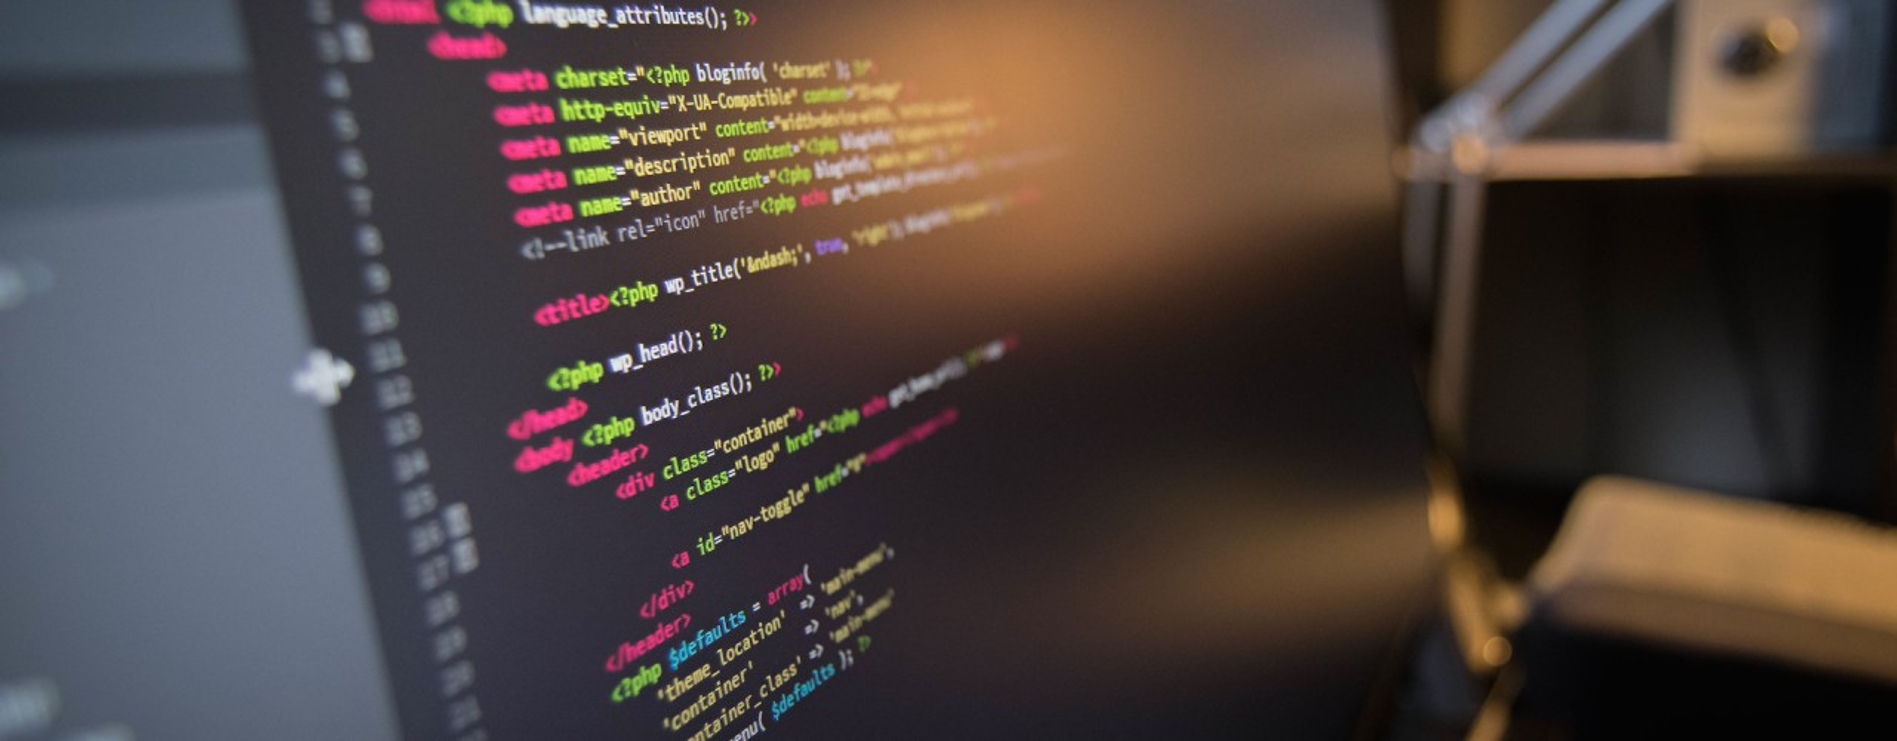
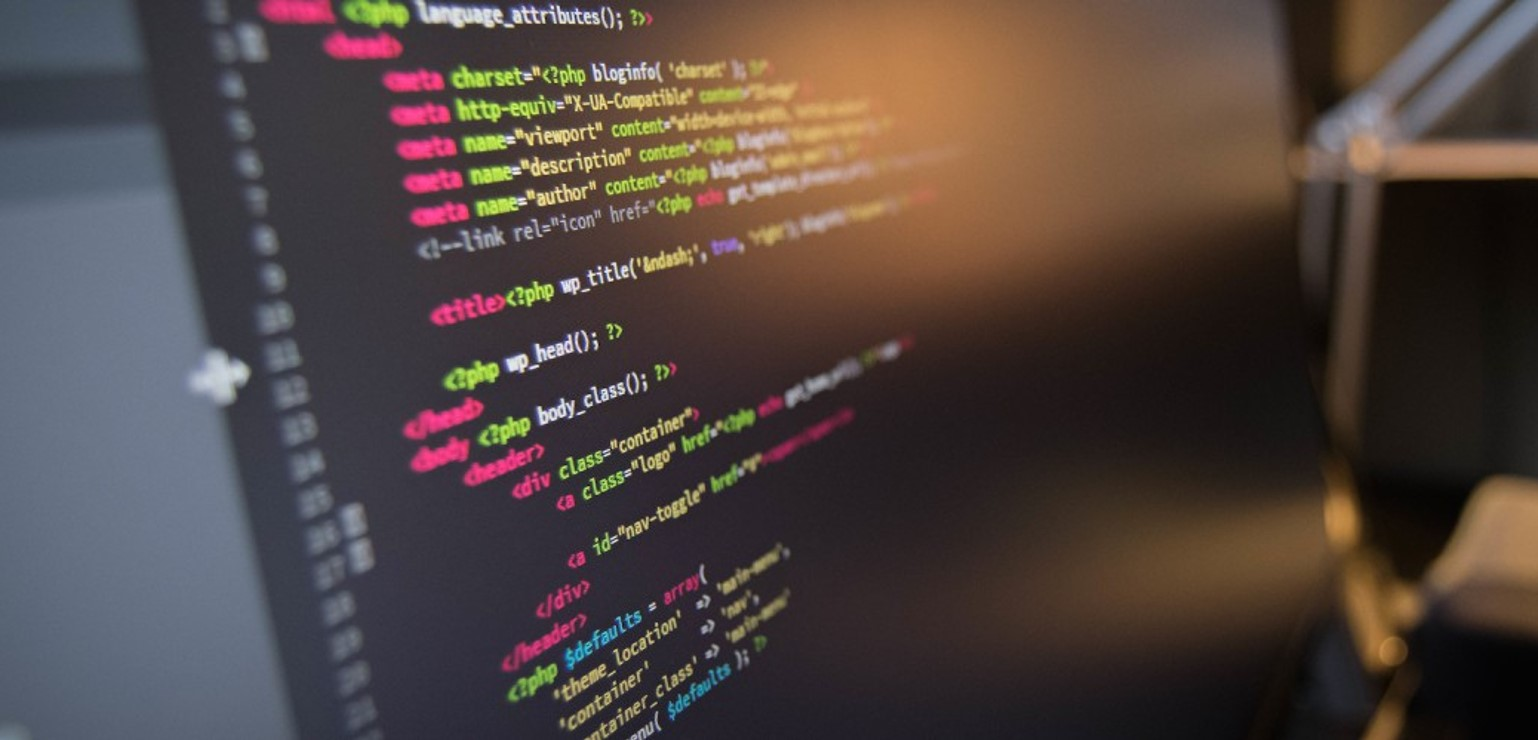
Adding a panel to the carousel and making it transparent

diff --git a/extras.html b/extras.html
@@ -36,24 +36,44 @@
         <div class="item active"> <!--only one can be active-->
           <img src="img/0.jpg" class="img-responsive featureimg" alt="code0"/> <!--img-responive= makes the img responsive to the screen--->
           <div class="carousel-caption">
-            <h3>CSS</h3>
-            <p>Cascading Style Sheets (englische Aussprache [kæsˌkeɪdɪŋˈstaɪlʃiːts]; für gestufte Gestaltungsbögen), kurz CSS genannt, ist eine Stylesheet-Sprache für elektronische Dokumente und zusammen mit HTML und DOM eine der Kernsprachen des World Wide Webs.</p>
+
+          <div class="panel panel-default panel-transparent">
+            <div class="panel-body">
+                <h3>CSS</h3>
+              <p><small>Cascading Style Sheets (englische Aussprache [kæsˌkeɪdɪŋˈstaɪlʃiːts]; für gestufte Gestaltungsbögen), kurz CSS genannt, ist eine Stylesheet-Sprache für elektronische Dokumente und zusammen mit HTML und DOM eine der Kernsprachen des World Wide Webs.</small></p>
+            </div>
           </div>
 
         </div>
+      </div>
+
+
         <div class="item">
           <img src="img/1.jpg" class="img-responsive featureimg" alt="code1"/> <!--img-responive= makes the img responsive to the screen--->
           <div class="carousel-caption">
-            <h3>HTML</h3>
-            <p>Die Hypertext Markup Language (englisch für Hypertext-Auszeichnungssprache), abgekürzt HTML, ist eine textbasierte Auszeichnungssprache zur Strukturierung digitaler Dokumente wie Texte mit Hyperlinks, Bildern und anderen Inhalten.</p>
+
+
+                  <div class="panel panel-default panel-transparent">
+                    <div class="panel-body">
+                        <h3>HTML</h3>
+                      <p><small>Die Hypertext Markup Language (englisch für Hypertext-Auszeichnungssprache), abgekürzt HTML, ist eine textbasierte Auszeichnungssprache zur Strukturierung digitaler Dokumente wie Texte mit Hyperlinks, Bildern und anderen Inhalten.</small></p>
+                    </div>
+                  </div>
+
           </div>
 
         </div>
         <div class="item">
           <img src="img/2.jpg" class="img-responsive featureimg" alt="code2"/> <!--img-responive= makes the img responsive to the screen--->
           <div class="carousel-caption">
-            <h3>CODING</h3>
-            <p>Programmierung (von altgriechisch πρόγραμμα prógramma „öffentlich und schriftlich bekannt gemachte Nachricht, Befehl“)[1] bezeichnet die Tätigkeit, Computerprogramme zu erstellen. Das ist ein Teilbereich der Softwareentwicklung[2] und umfasst vor allem die Umsetzung (Implementierung) des Softwareentwurfs in Quellcode sowie – je nach Programmiersprache – das Übersetzen des Quellcodes in die Maschinensprache, meist unter Verwendung eines Compilers.</p>
+
+            <div class="panel panel-default panel-transparent"> <!--see for transparent settings in style.css-->
+              <div class="panel-body">
+                  <h3>CODING</h3>
+                <p><small>Programmierung (von altgriechisch πρόγραμμα prógramma „öffentlich und schriftlich bekannt gemachte Nachricht, Befehl“)[1] bezeichnet die Tätigkeit, Computerprogramme zu erstellen.</small></p>
+              </div>
+            </div>
+
           </div>
         </div>
       </div>

diff --git a/style.css b/style.css
@@ -27,5 +27,18 @@ body{
 .featureimg{
   display: block;
   width: 100%;
-  max-height: 300px;
+  max-height: 260px;
+  }
+
+  .panel-transparent {
+      background: none;
+      border:0;
+  }
+
+  .panel-transparent .panel-heading{
+      background: rgba(122, 130, 136, 0.2)!important;
+  }
+
+  .panel-transparent .panel-body{
+      background: rgba(46, 51, 56, 0.2)!important;
   }
